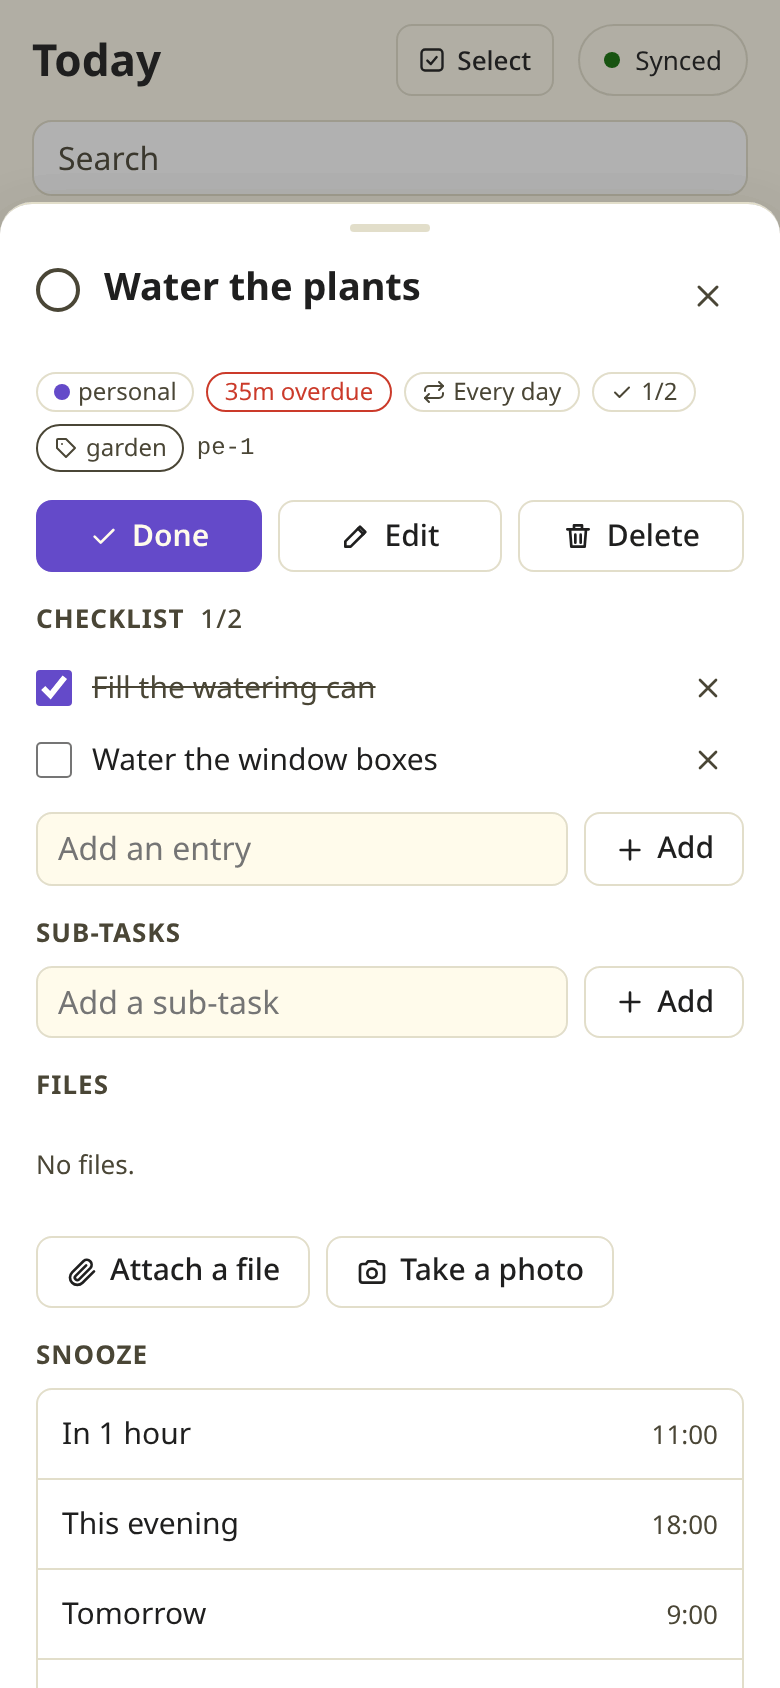
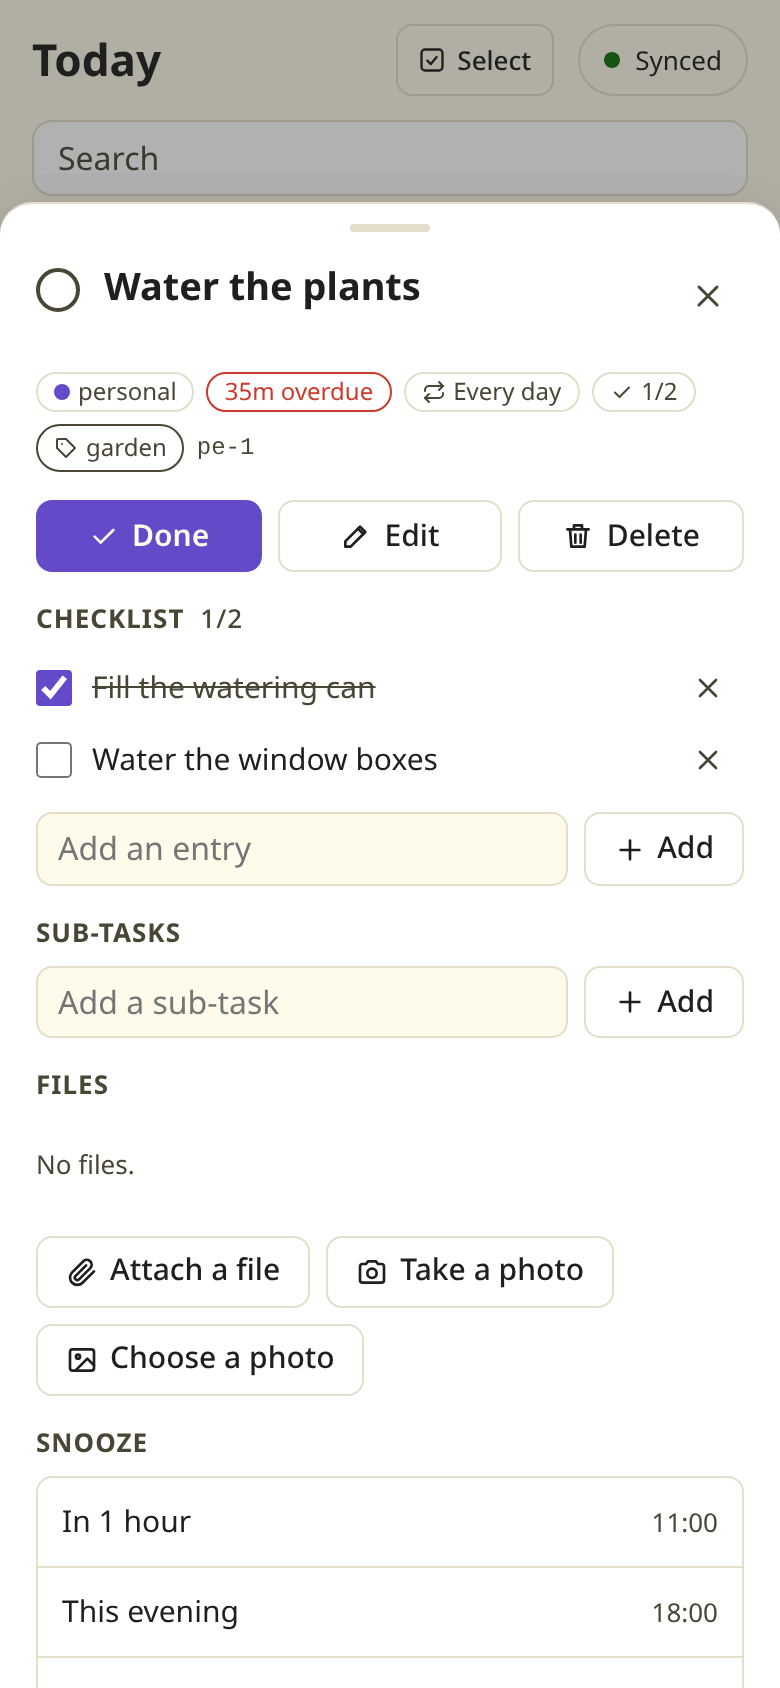
Retake the README detail screenshots with Choose a photo

diff --git a/README.md b/README.md
@@ -53,7 +53,7 @@ Each task from an agent shows why the agent needs you, which project it came fro
 
 <p>
   <img src="docs/images/phone-today-dark.png" width="300" alt="The Today list on a phone in the dark theme, grouped into Past due, Today, This evening, Tomorrow and This week. &quot;Call Sam about the weekend&quot; carries a weekend tag, the agent's task &quot;Order compost for the beds&quot; has a New badge, and a tab bar with Today, Upcoming, Agents and Browse sits at the bottom.">
-  <img src="docs/images/phone-detail.png" width="300" alt="The to-do &quot;Water the plants&quot; open on a phone in the light theme: it repeats every day and carries a garden tag, has a checklist with one of two entries ticked, and offers Done, Edit and Delete, a sub-task box, Files with Attach a file and Take a photo, and the start of the Snooze list: In 1 hour at 11:00, This evening at 18:00 and Tomorrow at 9:00.">
+  <img src="docs/images/phone-detail.png" width="300" alt="The to-do &quot;Water the plants&quot; open on a phone in the light theme: it repeats every day and carries a garden tag, has a checklist with one of two entries ticked, and offers Done, Edit and Delete, a sub-task box, Files with Attach a file, Take a photo and Choose a photo, and the start of the Snooze list: In 1 hour at 11:00 and This evening at 18:00.">
 </p>
 
 ### Hand a task to an agent
